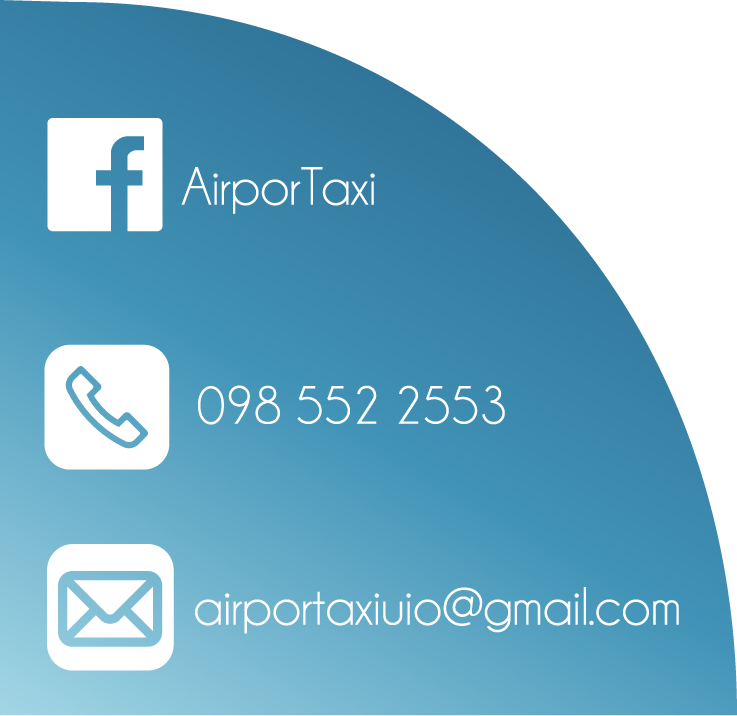
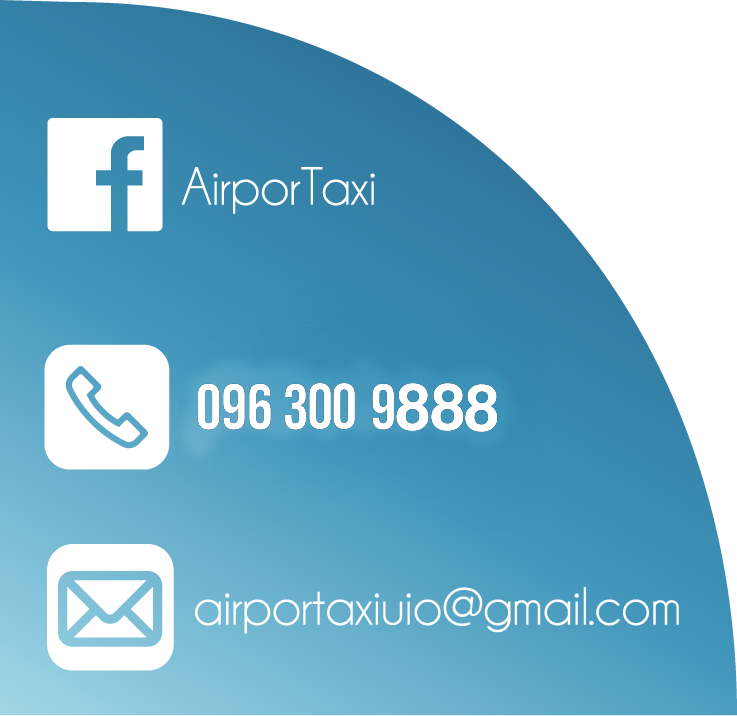
ADA -> Changes on contacts

Changed region(s): [[0.2497, 0.5223, 0.6866, 0.6145]]

diff --git a/index.html b/index.html
@@ -21,10 +21,10 @@
 
 <body>
     
-    <a href="https://web.whatsapp.com/send?phone=593963213955&text=Hola%21%20Quisiera%20m%C3%A1s%20informaci%C3%B3n%20sobre%20AirporTaxi%202" id="web-whatsapp" class="float" target="_blank">
+    <a href="https://web.whatsapp.com/send?phone=593963009888&text=Hola%21%20Quisiera%20m%C3%A1s%20informaci%C3%B3n%20sobre%20AirporTaxi%202" id="web-whatsapp" class="float" target="_blank">
         <i class="fa fa-whatsapp my-float"></i>
     </a>
-    <a href="https://api.whatsapp.com/send?phone=593963213955&text=Hola%21%20Quisiera%20m%C3%A1s%20informaci%C3%B3n%20sobre%20AirporTaxi%202" id="api-whatsapp" class="float" target="_blank">
+    <a href="https://api.whatsapp.com/send?phone=593963009888&text=Hola%21%20Quisiera%20m%C3%A1s%20informaci%C3%B3n%20sobre%20AirporTaxi%202" id="api-whatsapp" class="float" target="_blank">
         <i class="fa fa-whatsapp my-float"></i>
     </a>
     <div class="">
@@ -75,11 +75,11 @@
                 <div class="col-lg-6 ">
                     <img class="img-fluid scaled-item" id="auto-img" src="imgs/Autocorregido.svg"  alt="car">
                     <img class="img-fluid scaled-item" src="imgs/Viajar_alaero.svg" alt="viajar">
-                    <a href="https://api.whatsapp.com/send?phone=593963213955" id="api-whatsapp">
-                        <img class="img-fluid scaled-item" src="imgs/NumeroyBOTON.svg" style="padding-bottom: 50px;" alt="whatsapp">
+                    <a href="https://api.whatsapp.com/send?phone=593963009888" id="api-whatsapp">
+                        <img class="img-fluid scaled-item" src="imgs/NumeroyBOTON2.png" style="padding-bottom: 50px;" alt="whatsapp">
                     </a>
-                    <a href="https://web.whatsapp.com/send?phone=593963213955" id="web-whatsapp">
-                        <img class="img-fluid scaled-item" src="imgs/NumeroyBOTON.svg" style="padding-bottom: 50px;" alt="whatsapp">
+                    <a href="https://web.whatsapp.com/send?phone=593963009888" id="web-whatsapp">
+                        <img class="img-fluid scaled-item" src="imgs/NumeroyBOTON2.png" style="padding-bottom: 50px;" alt="whatsapp">
                     </a>
                 </div>
             </div>
@@ -110,7 +110,7 @@
                 </div>
                 <div class="col-md-6 text-center">
                     <!-- <img src="imgs/finalU/tarjetaCorregida.png" class="" style="transform: scale(1.2); margin-top: 4rem;" alt="tarjetaenvio"> -->
-                    <img src="imgs/finalU/tarjetilla.svg" class="img-fluid scaled-item" style="transform: scale(0.7);" alt="tarjetaenvio">
+                    <img src="imgs/tarjetilla.png" class="img-fluid scaled-item" style="transform: scale(1);" alt="tarjetaenvio">
                 </div>
             </div>
 
@@ -138,10 +138,10 @@
                         <div id="headingGroup" class="d-none d-md-block mt-5">
                             <img src="./imgs/Viajar_alaero.svg" style="transform: scale(0.7);" alt="viajar">
                             <a href="https://api.whatsapp.com/send?phone=593963213955" id="api-whatsapp2">
-                                <img src="./imgs/hablemos.png" style="transform: scale(0.7);" alt="whatsapp">
+                                <img src="./imgs/hablemos1.png" style="transform: scale(0.7);" alt="whatsapp">
                             </a>
                             <a href="https://web.whatsapp.com/send?phone=593963213955" id="web-whatsapp2">
-                                <img src="./imgs/hablemos.png" style="transform: scale(0.7);" alt="whatsapp">
+                                <img src="./imgs/hablemos1.png" style="transform: scale(0.7);" alt="whatsapp">
                             </a>
                         </div>
                     </div>
